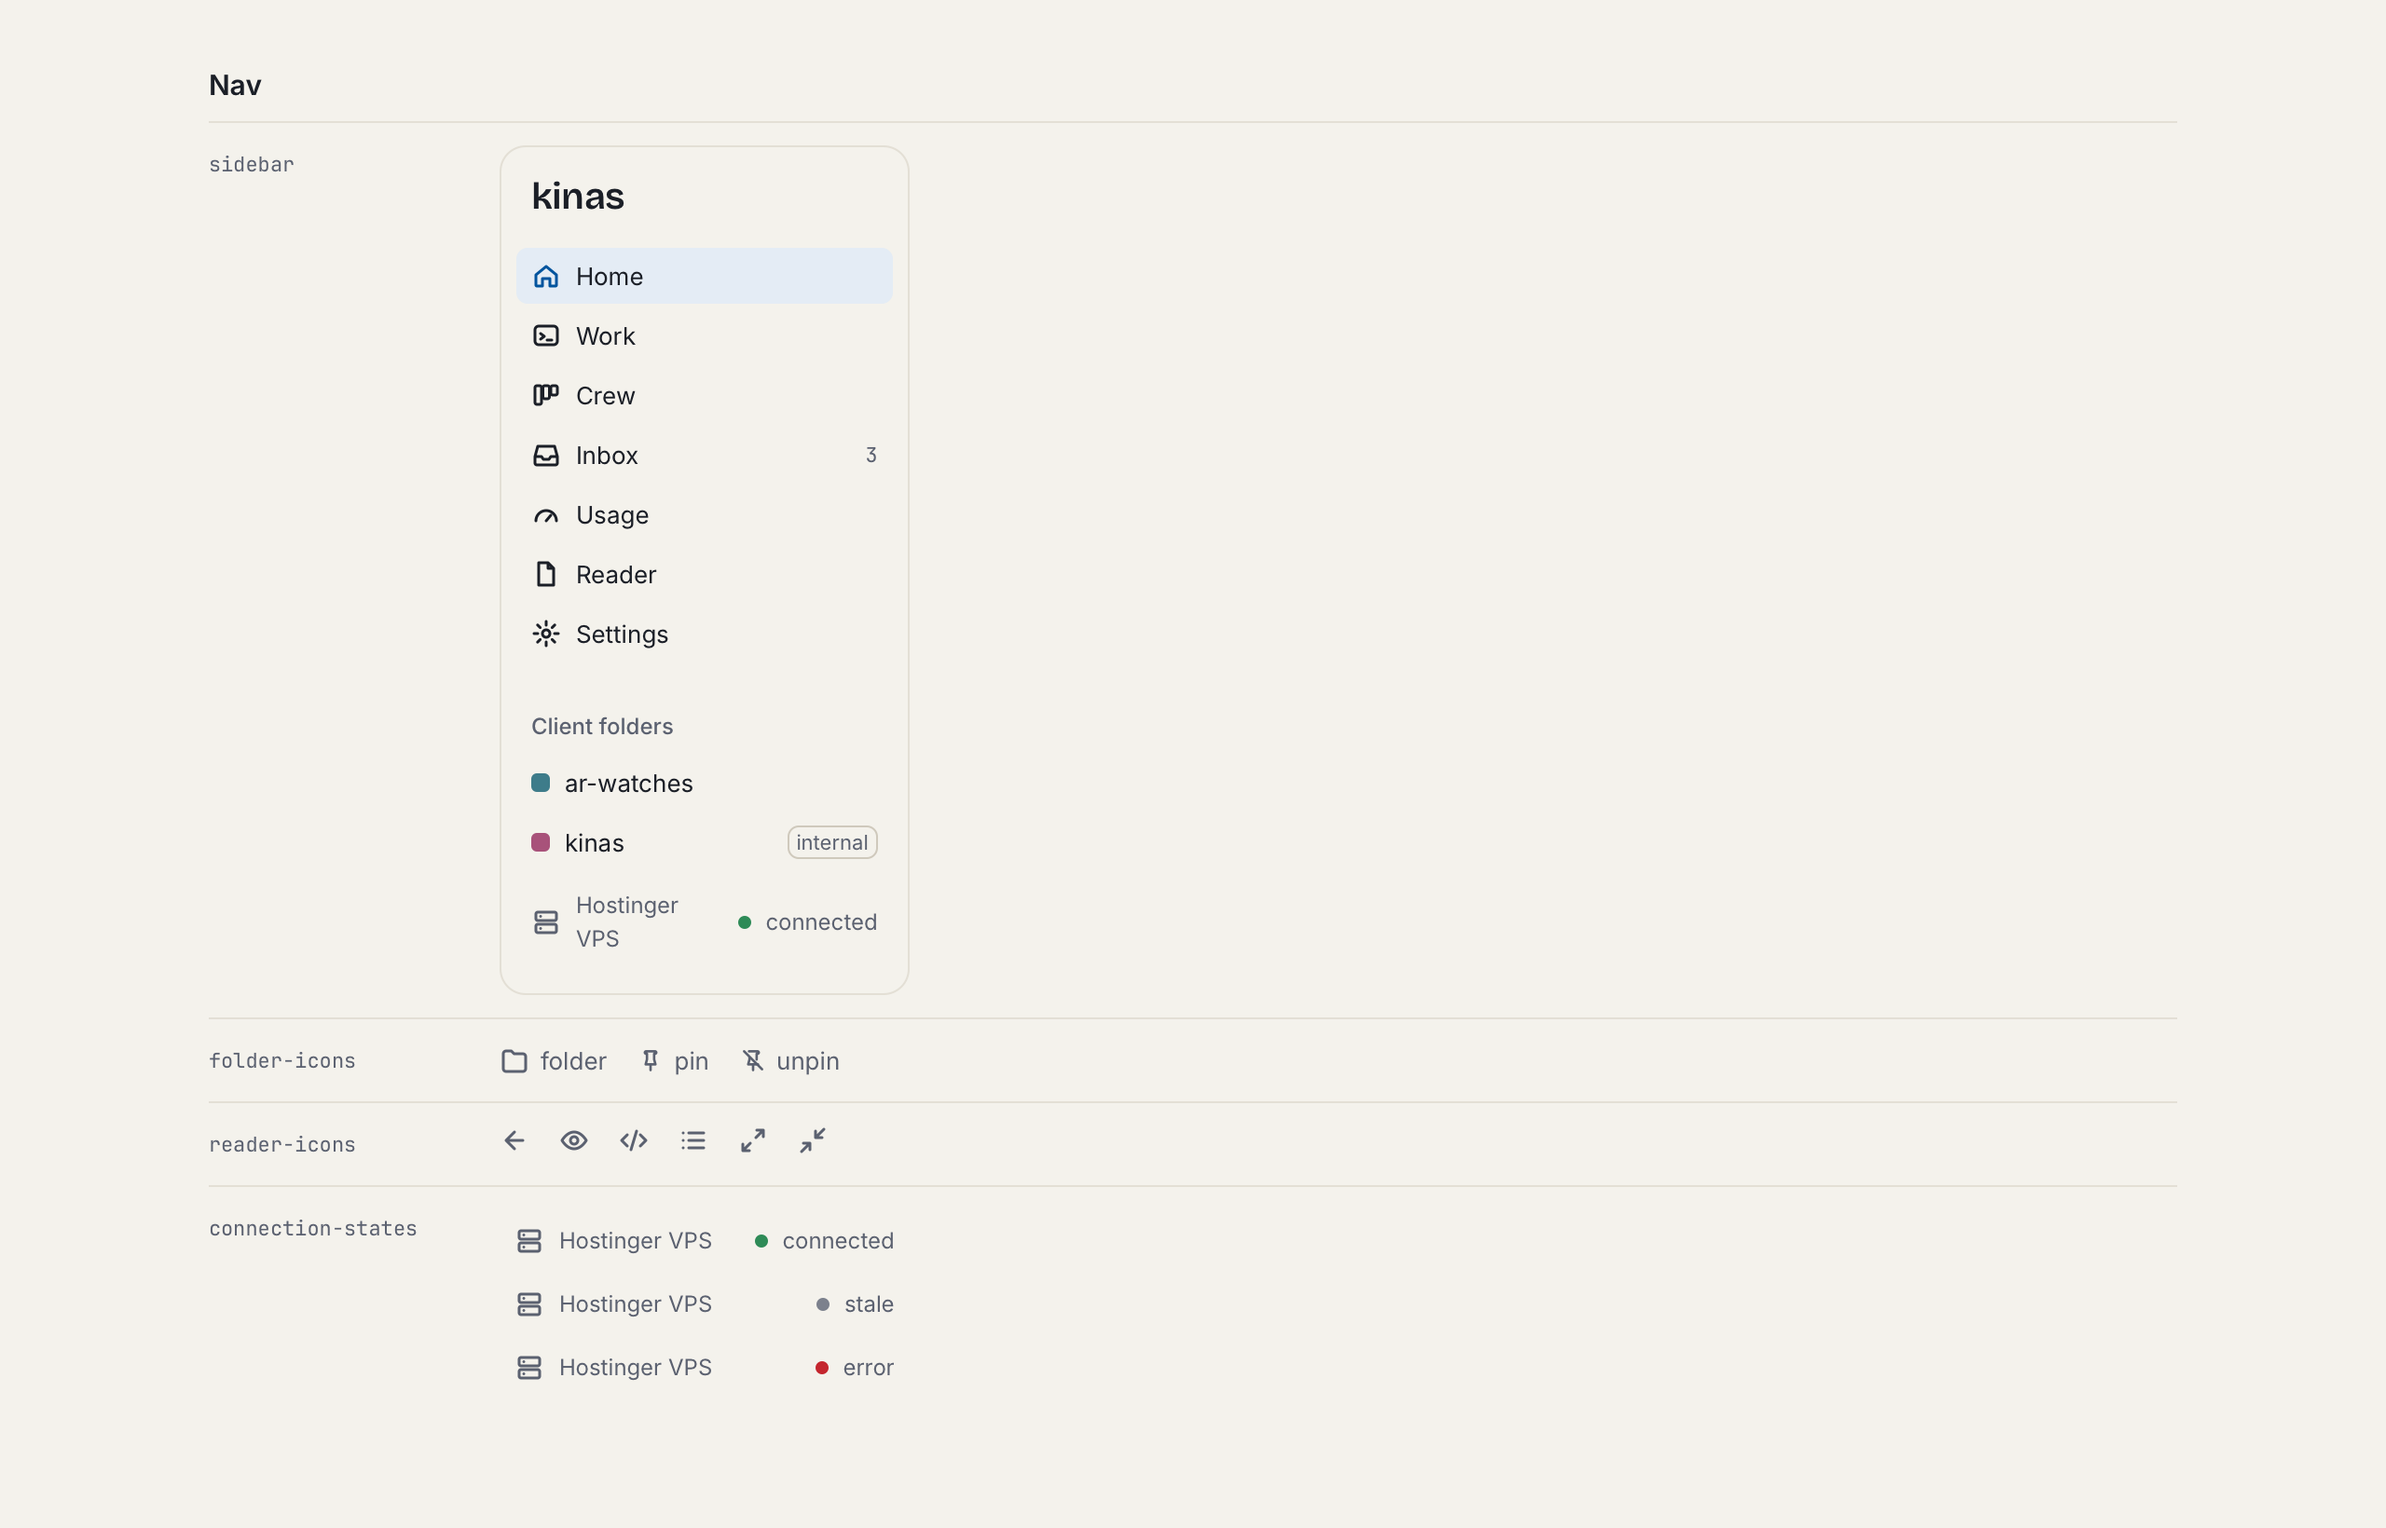
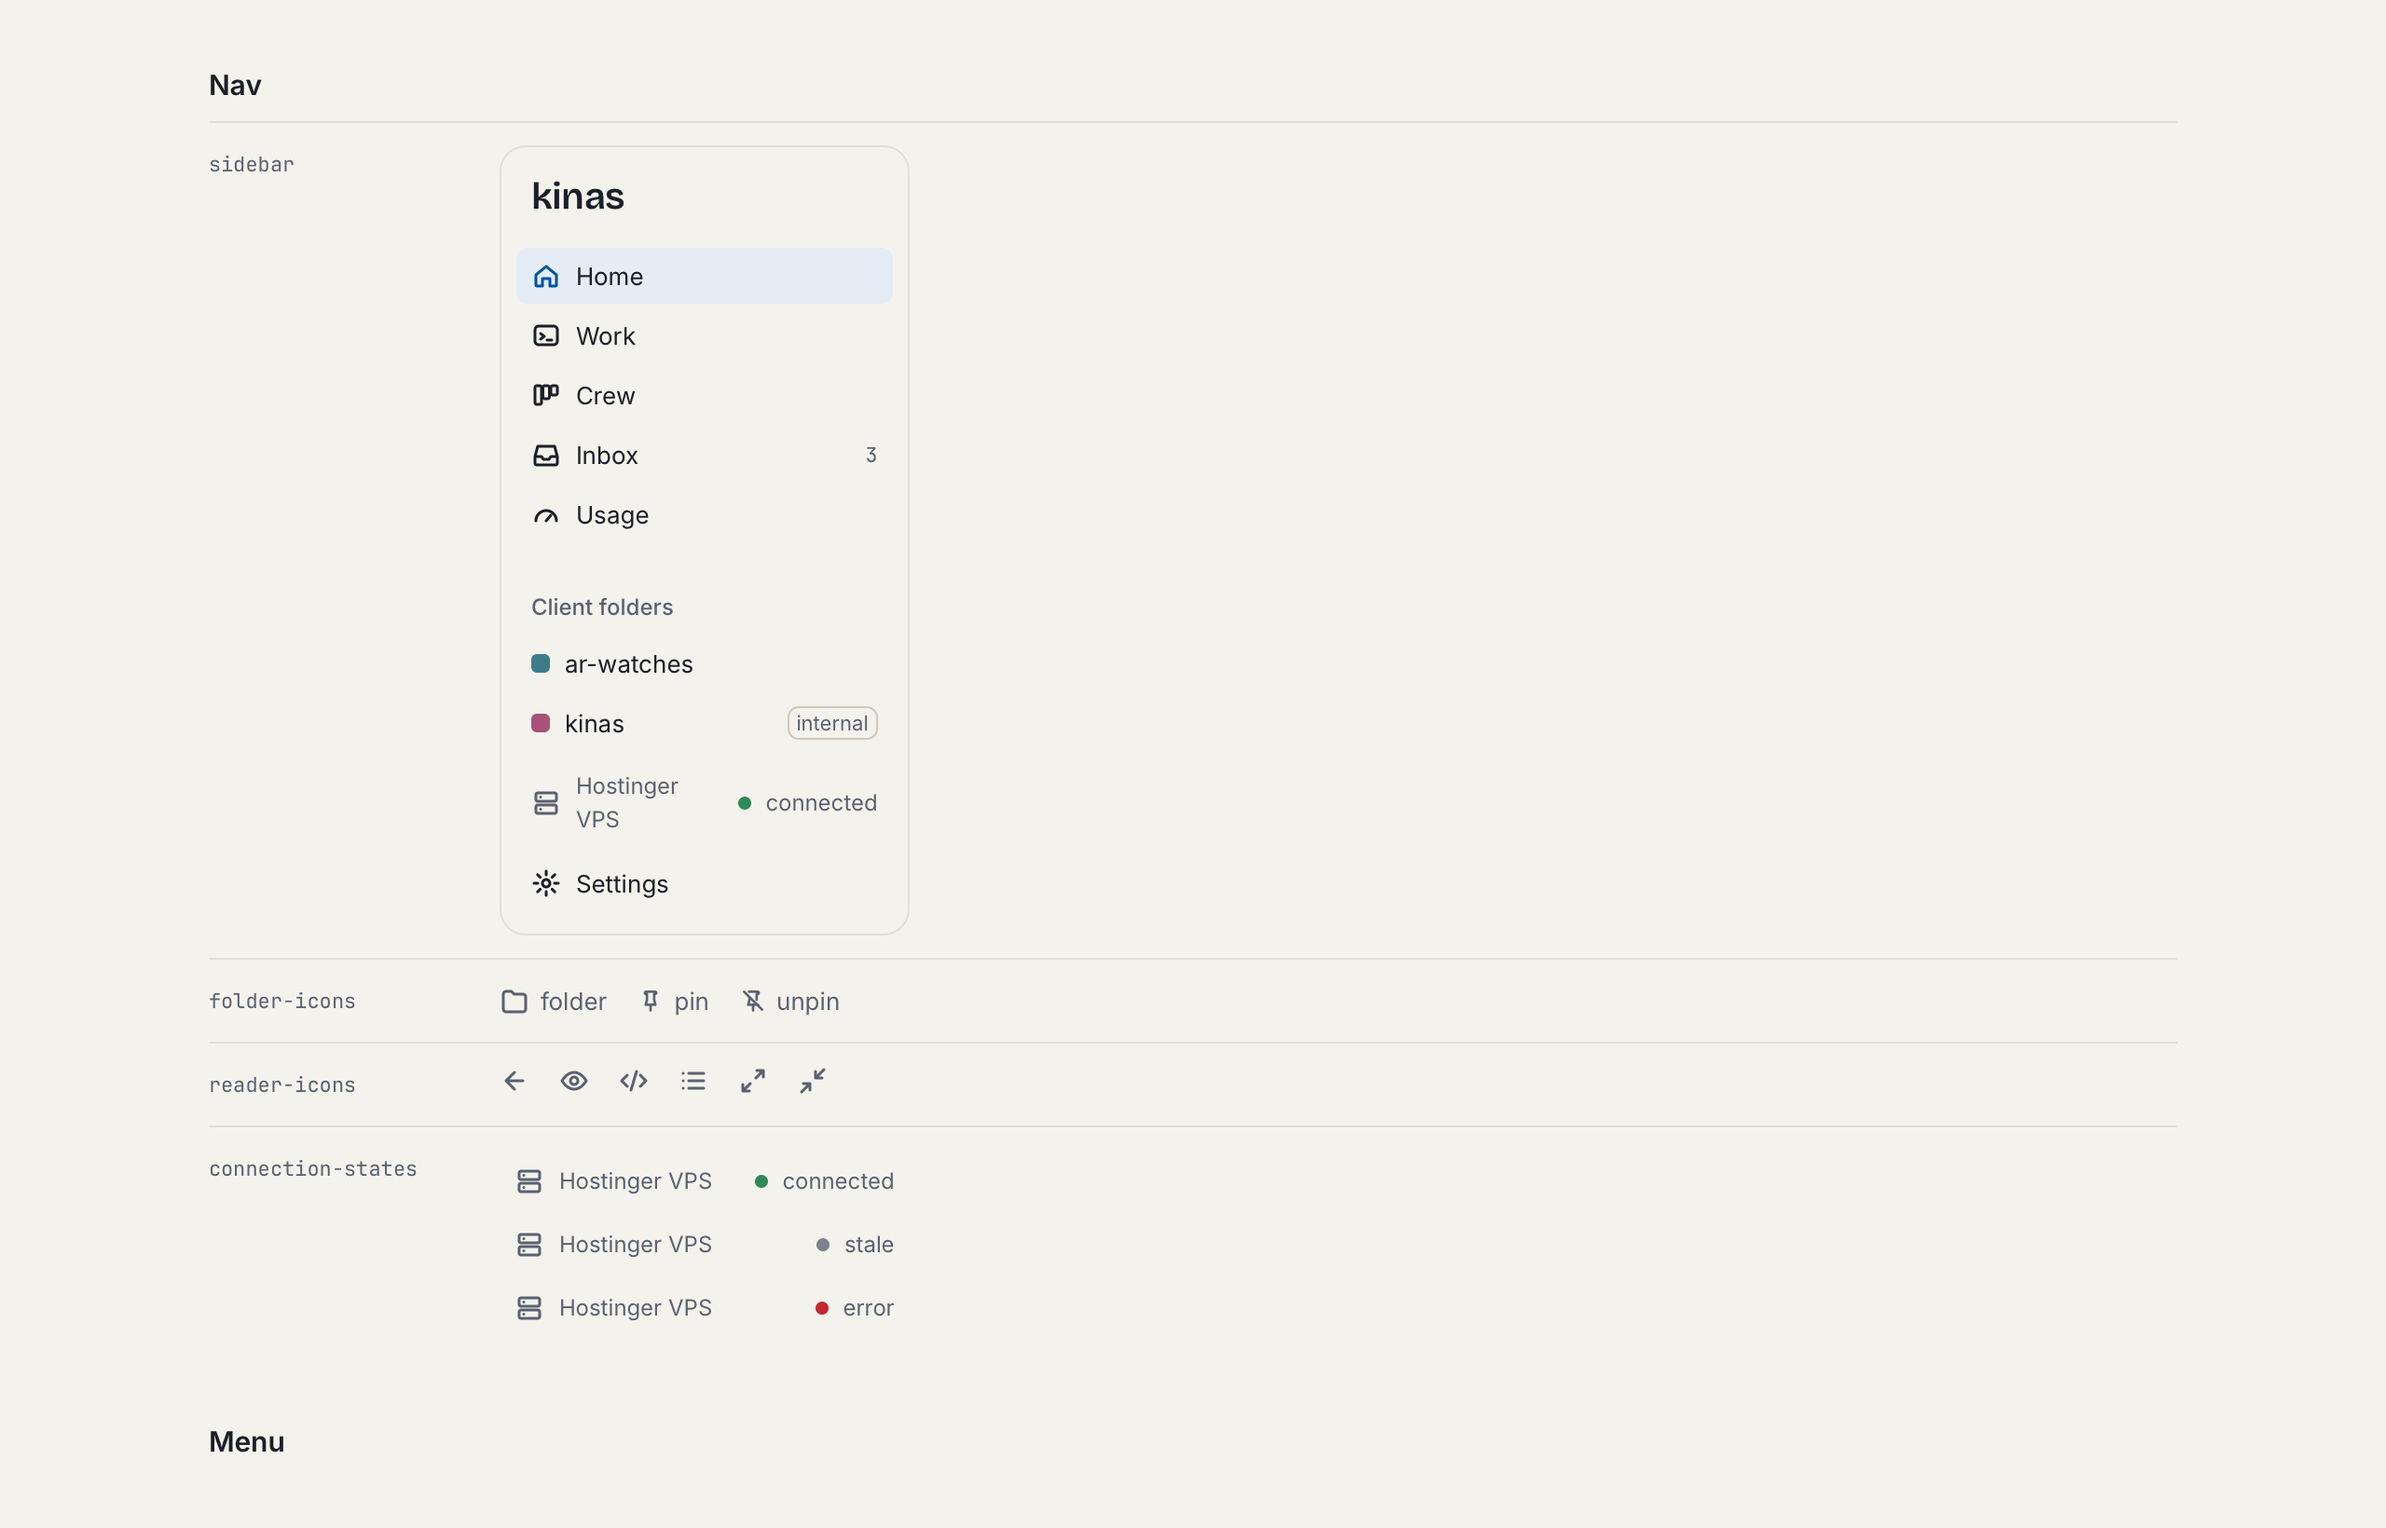
Folder views: the stories' screenshots with the Menu and the sidebar without its Reader row; slices 0–3 ticked

diff --git a/tasks/folder-views/status.md b/tasks/folder-views/status.md
@@ -4,10 +4,10 @@
 - Gates 2–4: taken as given by the same word (AGENTS.md, "anything the captain says to just do") — `prd.md` §2 and §4 are the architecture and the program design, the slices below are the plan
 
 ## Slices
-- [ ] Slice 0 · the docs first: DESIGN.md §3.1, §4 catalogue (Menu), the reader-header note; keymap.md; README.md; docs/smoke-test.md
-- [ ] Slice 1 · the sidebar's shape: the Reader row gone, Settings at the foot, Recent under Client folders; shell.e2e and the Nav story follow
-- [ ] Slice 2 · `ui/Menu`: the reader's ▾ menu moved into the library, with a divider and a story; the reader passes `reader-menu`
-- [ ] Slice 3 · Rust: `projects.rs` — hidden/removed/added by path, `set_folder_hidden`, `set_folder_removed`, `add_client_folder`, unit tests
+- [x] Slice 0 · the docs first: DESIGN.md §3.1, §4 catalogue (Menu), the reader-header note; keymap.md; README.md; docs/smoke-test.md (2026-09-23, `420b2a8`; the Menu catalogue row landed with its story in slice 2). Before it, `9edd1c7`: `packages/context/src/config.test.ts` read the real app's store, and the captain's saved projects folder broke three cases — the test now gets an empty data folder
+- [x] Slice 1 · the sidebar's shape: the Reader row gone, Settings at the foot, Recent under Client folders; shell.e2e and the Nav story follow (2026-09-23, `aafb211`): check green, shell.e2e 6/6 alone
+- [x] Slice 2 · `ui/Menu`: the reader's ▾ menu moved into the library, with a divider and a story; the reader passes `reader-menu` (2026-09-23, `7947733`): check green; reader-export 5/5, reader-pins-a 6/6, stories 2/2 alone; reader-panel 3/4 on a load of 13 (AC-3's first `terminalFocused` after a cold `kinas open`), 4/4 on the same binary at once after — watch it in the full run
+- [x] Slice 3 · Rust: `projects.rs` — hidden/removed/added by path, `set_folder_hidden`, `set_folder_removed`, `add_client_folder`, unit tests (2026-09-23, `bb5809e`): 187 Rust tests (6 new), clippy clean. The e2e seam is `KINAS_E2E_PICK_FOLDER`, a file holding the pick (empty = Cancel)
 - [ ] Slice 4 · the webview: the listing's flags, `shownFolders`, the sidebar's right-click menu, Home, Settings → Client folders
 - [ ] Slice 5 · `folders.e2e.ts`, the full e2e suite alone, the screens re-taken → ship point: commits local, **waiting for the captain's word on the push**
 
